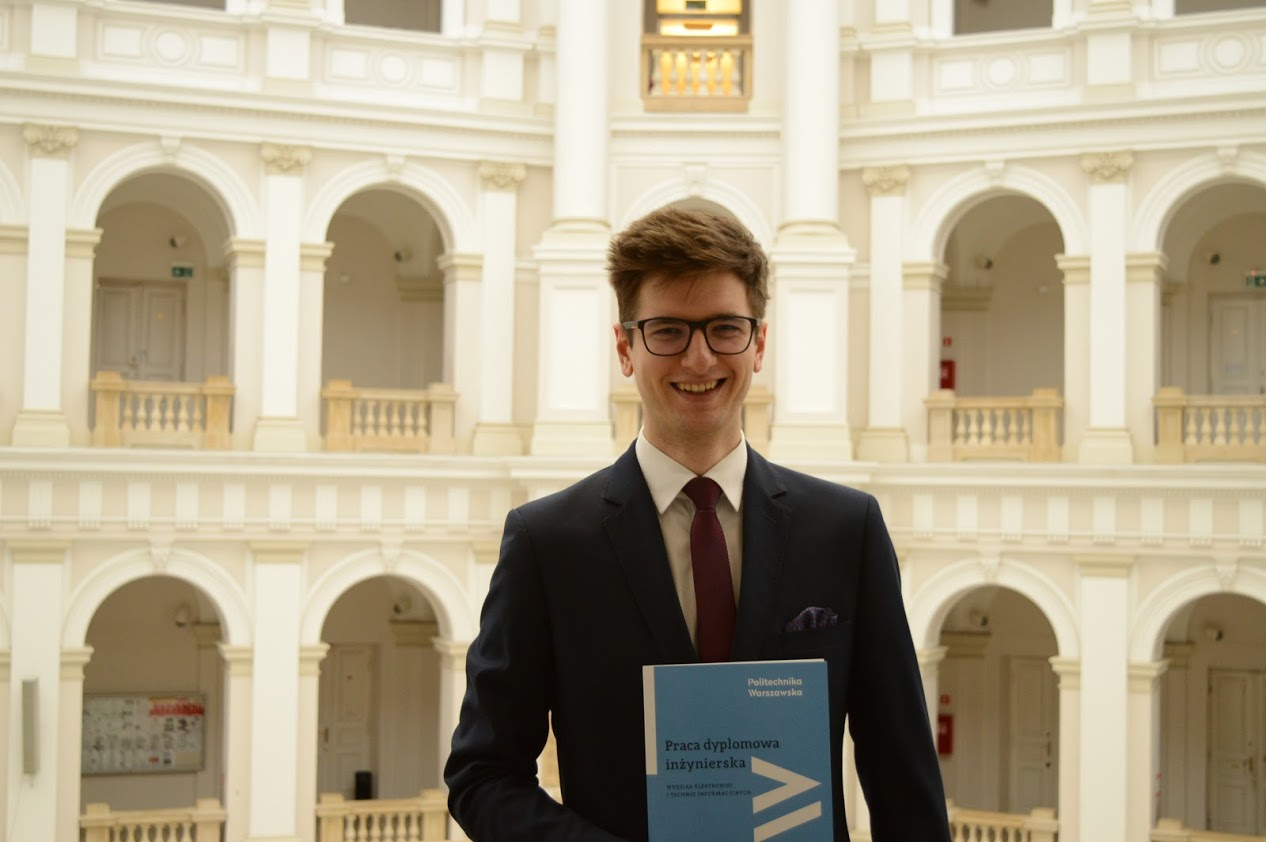
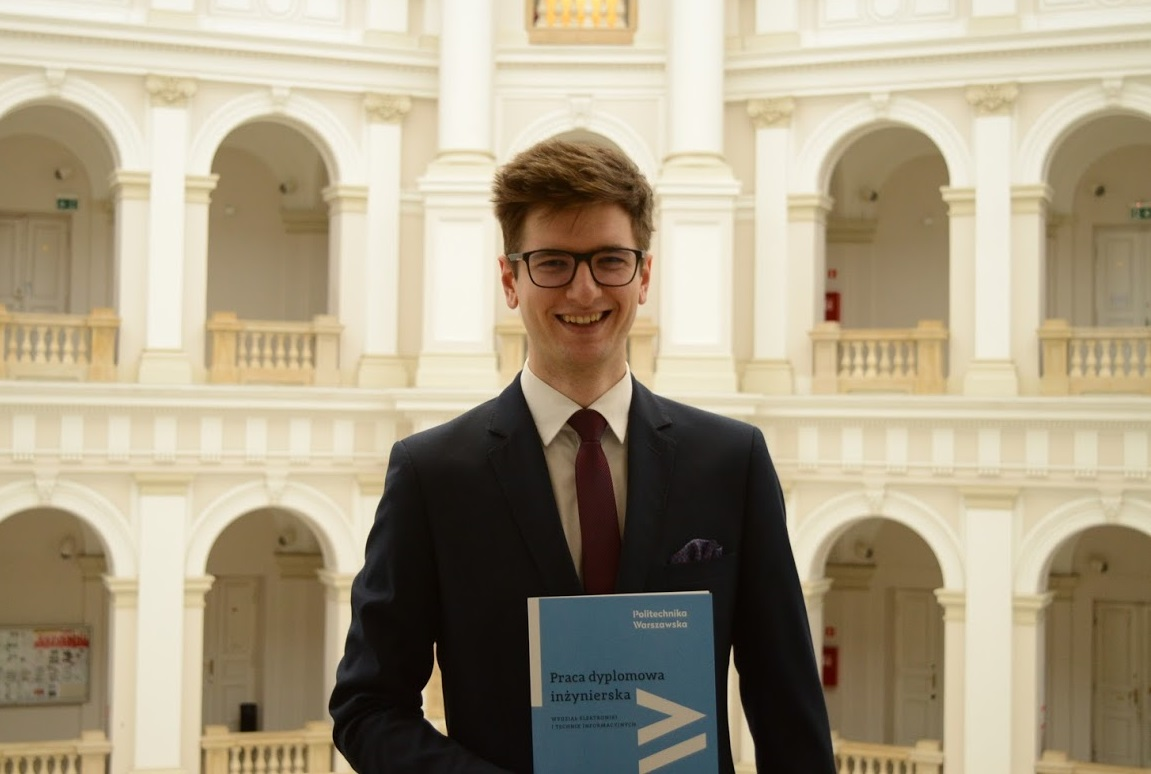
images

diff --git a/_pages/about.md b/_pages/about.md
@@ -10,11 +10,19 @@ redirect_from:
 
 I’m a master's student in Data Science at Warsaw University of Technology in Poland. My main area of the current research is in the Music Generation and analysis using Deep Learning techniques. I’m both passionate about freedom of scientific research with systematic and well-constructed methodology and business approach with innovative project management. 
 
+![Graduate](https://raw.githubusercontent.com/mateuszdorobek/mateuszdorobek.github.io/master/images/eiti_inz.jpg)
+
 I’ve graduated with a Bachelor of Computer Science in 2019. During my bachelor's degree, I’ve learned a lot about software engineering and algorithmic approach, but on my masters, I’ve decided to change to the faculty of Mathematics to try the more formal approach of Machine and Deep Learning to gain wider look at Data Science. My thesis about Generating Music using DCGAN become an article that I’ve presented on ICAISC 2019 in Zakopane.
+
+![ICAISC2019]( https://raw.githubusercontent.com/mateuszdorobek/mateuszdorobek.github.io/master/images/ICAISC_2019_posters.jpg )
 
 It was always a big motivation and satisfaction for me to share my experience with others. I’ve been a speaker at BEST Engineering Meeting 2018, #84 PyWaw and I’ve organized my own workshop on Machine Learning at MINI faculty at WUT. From 2019 I’m working as a Freelancer mostly on small Machine Learning projects and giving private lessons on Computer Science and Mathematics. 
 
+![PyWaw84]( https://raw.githubusercontent.com/mateuszdorobek/mateuszdorobek.github.io/master/images/pywaw84.jpg )
+
 Despite a technical background in most of my team projects, I’ve become a Project Manager. One of the biggest (9 months) was LEAD which was a program that connected students with big corporations. My group has created a solution for a retail recommendation system, where we have used modern ML tools to work with big dataset. Our work was presented to over 30 CEOs, Division Directors and Leaders from the IT industry discussing possible implementation.
+
+![LEADIT]( https://raw.githubusercontent.com/mateuszdorobek/mateuszdorobek.github.io/master/images/LEAD_Team.jpg )
 
 My biggest passion and sort of escape from daily routine is Music. I’m a jazz musician from over 9 years with lots of concerts on my account. I’m playing saxophone and piano, composing my own music in my Jazz Quartet. 
 
